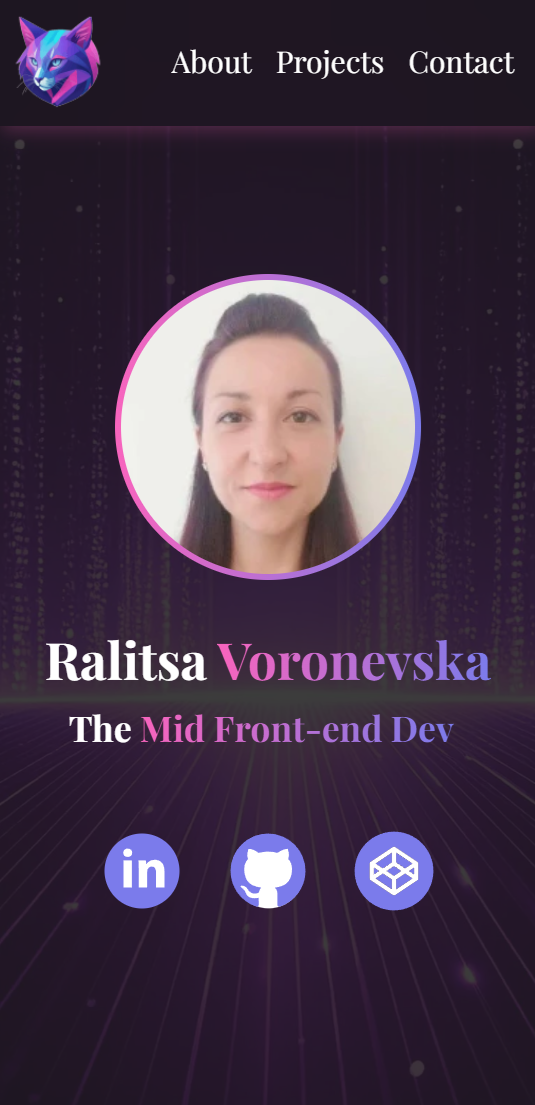
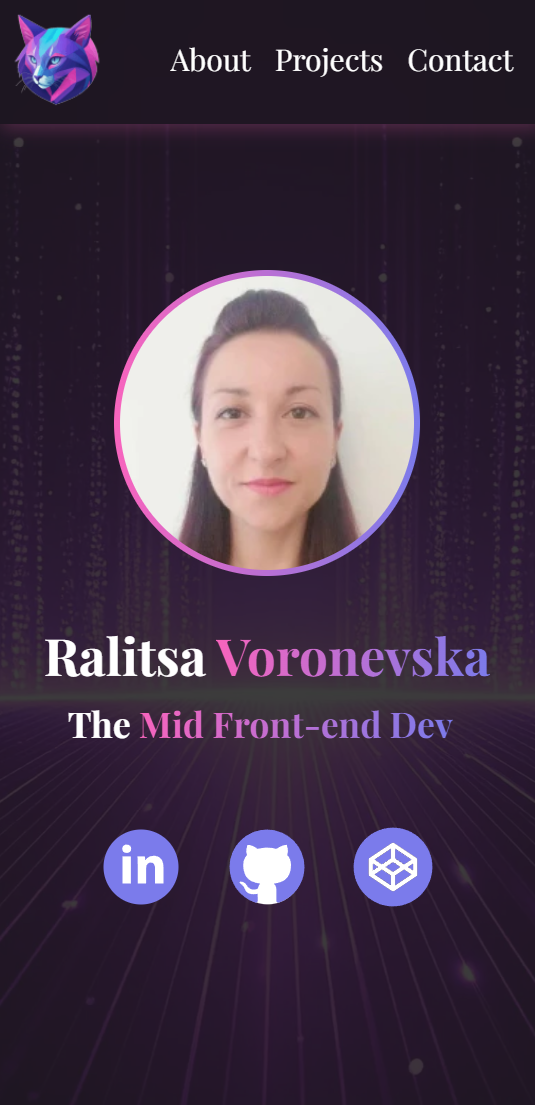
Updates

diff --git a/css/styles-small.css b/css/styles-small.css
@@ -1,1 +1,1 @@
-:root{--pink: #f864bd;--purple: #7b7beb;--deep-purple: rgba(30, 22, 33, .85);--dark-overlay: rgba(26,26,26,.5);--text-color: white;--transition: .3s}*{margin:0;padding:0}*,*::before,*::after{box-sizing:border-box}html{scroll-behavior:smooth}.scrollToTop{width:4rem;height:4rem;cursor:pointer;bottom:50rem;right:1.25rem;z-index:100000;background-color:var(--purple);visibility:hidden;opacity:0;transform:translateY(30%);transition:.5s;box-shadow:0 .625rem 3.125rem .625rem hsla(0,0%,100%,.35)}.scrollToTop.active{visibility:visible;opacity:1;bottom:10%}.scrollToTop:hover,.scrollToTop:focus{background-image:linear-gradient(90deg, var(--pink), var(--purple) 75%)}header{z-index:20;min-height:5.25rem;box-shadow:3px 3px 12px rgba(248,99,189,.25);backdrop-filter:blur(40px)}header .nav-logo{min-height:5.25rem}.logo{width:5rem;height:5.3125rem;transform:scale(0.7059);background:url("../img/logo.png") no-repeat}.logo:hover{transform:scale(0.75);transition:transform var(--transition) ease-in-out}nav a{font-size:1.25rem !important}nav a:hover{color:var(--purple) !important;transition:color var(--transition) ease-out}a{color:var(--text-color);cursor:pointer}.important-el{background:var(--deep-purple) !important;box-shadow:.1875rem .1875rem .75rem rgba(248,99,189,.25)}h1.sm-heading,h2.sm-heading,h3.sm-heading{padding:.2rem 0}h2.sm-heading,h3.sm-heading,h4.sm-heading,p.sm-heading{font-size:calc(1.275rem + .9vw)}.hero-section .hero-and-socials{margin-top:3.5rem}#about-me,#projects,#contact-me{margin-top:6rem;margin-bottom:6rem}.glow-icons .glow-icon{margin:.3125rem}@keyframes pulse{0%,100%{transform:scale(1)}50%{transform:scale(1.05)}}.glow-icons .glow-box-parent{width:2.625rem;height:2.625rem;animation:pulse 2s infinite;transition:all var(--transition) ease;box-shadow:0 0 .3125rem var(--dark-overlay),0 0 .625rem var(--dark-overlay),0 0 .9375rem var(--dark-overlay),inset 0 0 .3125rem hsla(0,0%,100%,.5);filter:drop-shadow(0 0 5px var(--dark-overlay))}.glow-icons .glow-box-parent .icon-img{filter:brightness(1.2)}.glow-icons .glow-box-parent:hover{cursor:pointer;filter:drop-shadow(0 0 0.625rem var(--text-color));transform:perspective(62.5rem) rotateX(10deg) rotateY(10deg) scale(1.1);animation-play-state:paused}.glow-icons .glow-box-parent:hover .tooltip{opacity:1;visibility:visible;transform:translateY(0)}.glow-icons .glow-box-parent:focus{box-shadow:0 0 62.5rem #f3f3f3}.glow-icons .glow-box-parent .tooltip{top:-3.125rem;background:#1a1a1a;color:var(--text-color);padding:.3125rem .625rem;font-size:.875rem;white-space:nowrap;opacity:0;visibility:hidden;transform:translateY(10px);transition:opacity var(--transition) ease,transform var(--transition) ease,visibility var(--transition) ease;box-shadow:0 .125rem .3125rem rgba(0,0,0,.3);z-index:10}.glow-icons .glow-box-parent .tooltip::after{content:"";position:absolute;bottom:-0.4375rem;left:50%;transform:translateX(-50%);width:0;height:0;border-style:solid;border-width:.5rem .5rem 0 .5rem;border-color:#1a1a1a rgba(0,0,0,0) rgba(0,0,0,0) rgba(0,0,0,0)}.card{color:var(--text-color)}.card:hover{border:.0625rem solid hsla(0,0%,100%,.2666666667);box-shadow:0 .4375rem 3.125rem .625rem hsla(0,0%,100%,.2666666667);transform:scale(1.015)}.card .card-img-top{height:calc(100% - 6.8rem);object-fit:cover}footer{font-size:2rem;height:3.75rem}@media(max-width: 767px){footer p.lead{font-size:1.125rem !important}}
+:root{--pink: #f864bd;--purple: #7b7beb;--deep-purple: rgba(30, 22, 33, .85);--dark-overlay: rgba(26,26,26,.5);--text-color: white;--transition: .3s}*{margin:0;padding:0}*,*::before,*::after{box-sizing:border-box}html{scroll-behavior:smooth}.scrollToTop{width:4rem;height:4rem;cursor:pointer;bottom:50rem;right:1.25rem;z-index:100000;background-color:var(--purple);visibility:hidden;opacity:0;transform:translateY(30%);transition:.5s;box-shadow:0 .625rem 3.125rem .625rem hsla(0,0%,100%,.35)}.scrollToTop.active{visibility:visible;opacity:1;bottom:10%}.scrollToTop:hover,.scrollToTop:focus{background-image:linear-gradient(90deg, var(--pink), var(--purple) 75%)}header{z-index:20;min-height:5.25rem;box-shadow:3px 3px 12px rgba(248,99,189,.25);backdrop-filter:blur(40px)}header .nav-logo{min-height:5.25rem}.logo{width:5rem;height:5.3125rem;transform:scale(0.7059);background:url("../img/logo.png") no-repeat}.logo:hover{transform:scale(0.75);transition:transform var(--transition) ease-in-out}nav a{font-size:1.25rem !important}nav a:hover{color:var(--purple) !important;transition:color var(--transition) ease-out}a{color:var(--text-color);cursor:pointer}.important-el{background:var(--deep-purple) !important;box-shadow:.1875rem .1875rem .75rem rgba(248,99,189,.25)}h1.sm-heading,h2.sm-heading,h3.sm-heading{padding:.2rem 0}h2.sm-heading,h3.sm-heading,h4.sm-heading,p.sm-heading{font-size:calc(1.275rem + .9vw)}.hero-section .hero-and-socials{margin-top:3.35rem}#about-me,#projects,#contact-me{margin-top:6rem;margin-bottom:6rem}.glow-icons .glow-icon{margin:.3125rem}@keyframes pulse{0%,100%{transform:scale(1)}50%{transform:scale(1.05)}}.glow-icons .glow-box-parent{width:2.625rem;height:2.625rem;animation:pulse 2s infinite;transition:all var(--transition) ease;box-shadow:0 0 .3125rem var(--dark-overlay),0 0 .625rem var(--dark-overlay),0 0 .9375rem var(--dark-overlay),inset 0 0 .3125rem hsla(0,0%,100%,.5);filter:drop-shadow(0 0 5px var(--dark-overlay))}.glow-icons .glow-box-parent .icon-img{filter:brightness(1.2)}.glow-icons .glow-box-parent:hover{cursor:pointer;filter:drop-shadow(0 0 0.625rem var(--text-color));transform:perspective(62.5rem) rotateX(10deg) rotateY(10deg) scale(1.1);animation-play-state:paused}.glow-icons .glow-box-parent:hover .tooltip{opacity:1;visibility:visible;transform:translateY(0)}.glow-icons .glow-box-parent:focus{box-shadow:0 0 62.5rem #f3f3f3}.glow-icons .glow-box-parent .tooltip{top:-3.125rem;background:#1a1a1a;color:var(--text-color);padding:.3125rem .625rem;font-size:.875rem;white-space:nowrap;opacity:0;visibility:hidden;transform:translateY(10px);transition:opacity var(--transition) ease,transform var(--transition) ease,visibility var(--transition) ease;box-shadow:0 .125rem .3125rem rgba(0,0,0,.3);z-index:10}.glow-icons .glow-box-parent .tooltip::after{content:"";position:absolute;bottom:-0.4375rem;left:50%;transform:translateX(-50%);width:0;height:0;border-style:solid;border-width:.5rem .5rem 0 .5rem;border-color:#1a1a1a rgba(0,0,0,0) rgba(0,0,0,0) rgba(0,0,0,0)}.card{color:var(--text-color)}.card:hover{border:.0625rem solid hsla(0,0%,100%,.2666666667);box-shadow:0 .4375rem 3.125rem .625rem hsla(0,0%,100%,.2666666667);transform:scale(1.015)}.card .card-img-top{height:calc(100% - 6.8rem);object-fit:cover}footer{font-size:2rem;height:3.75rem}@media(max-width: 767px){footer p.lead{font-size:1.125rem !important}}

diff --git a/index.html b/index.html
@@ -828,7 +828,7 @@
 
           <p class="sm-heading center mb-0">
             <img src="img/svgs/map-marker.svg" width="30" height="30" alt="Map Marker icon" loading="lazy">
-            <span class="gradient-text ms-2">Padiham, Lancashire, UK</span>
+            <span class="gradient-text ms-2">Varna, Bulgaria</span>
           </p>
 
           <!-- start of social-icons -->
